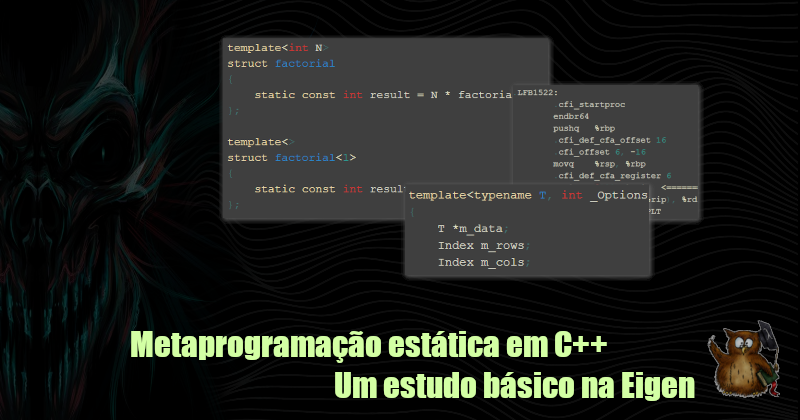
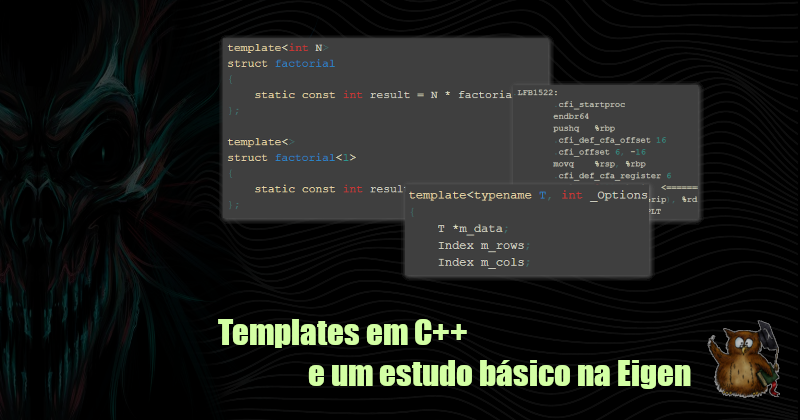
mend

Changed region(s): [[0.1562, 0.7429, 0.875, 0.9595]]

diff --git a/_posts/2020-08-03-eigen-template-cpp.md b/_posts/2020-08-03-eigen-template-cpp.md
@@ -1,6 +1,6 @@
 ---
 layout: post
-title: Metaprogramação estática em C++ - Um estudo básico na Eigen
+title: Templates em C++, e um estudo básico na Eigen
 image: 2020-08-03/img001.png
 ---
 
@@ -9,7 +9,7 @@ image: 2020-08-03/img001.png
 {: refdef}
 
 
-Metaprogramação estática utilizando templates em C++ é geralmente motivo de
+Metaprogramação e templates em C++ são geralmente motivos de
 medo para muitos programadores. Templates podem ser muito complexos em geral,
 mas existem casos simples e, se você tem interesse em aprender essa ferramenta,
 sugiro começar exatamente por esses. Por outro lado, Eigen é uma biblioteca
@@ -175,7 +175,7 @@ ela bastante em projetos pessoais que precisem de uma estrutura de vetores com
 boa performance e, eventualmente, funções auxiliares ligadas à algebra linear.
 A Eigen é uma biblioteca header-only, de forma que não é necessário fazer nenhum
 tipo de linkagem para utiliza-la. Por isso, ela faz uso intenso de
-metaprogramação estática por meio de templates em C++.
+metaprogramação por meio de templates em C++.
 
 Apenas para mostrar brevemente um estudo de caso de uso de templates em C++,
 resolvi "garimpar" no código fonte da Eigen, a fim de descobrir como ela faz
